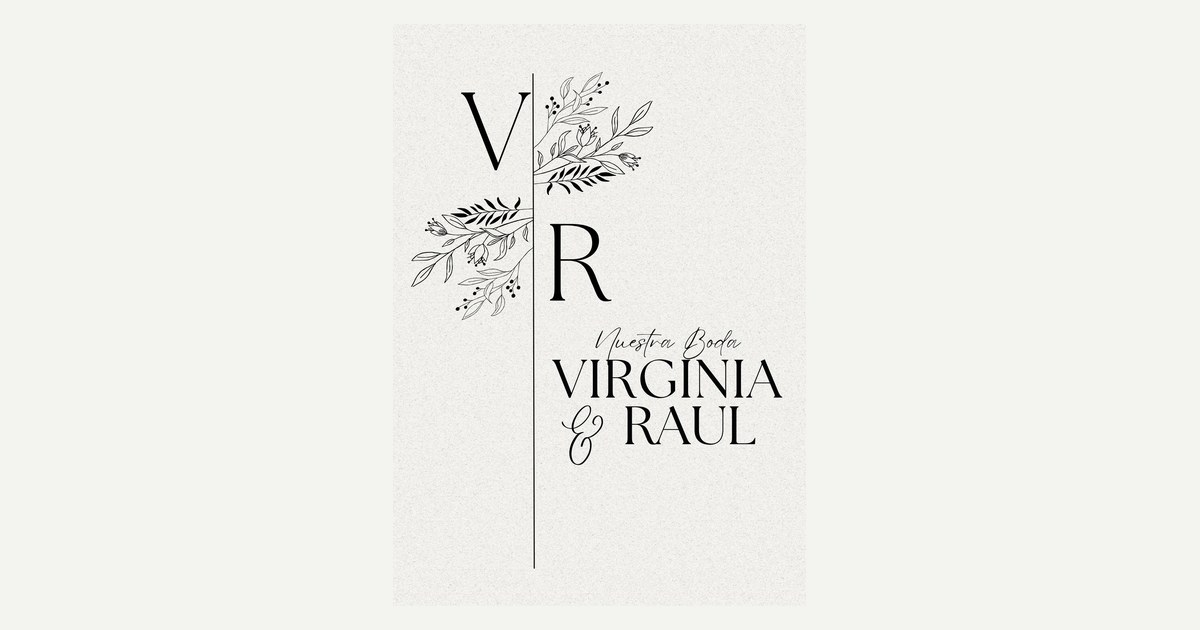
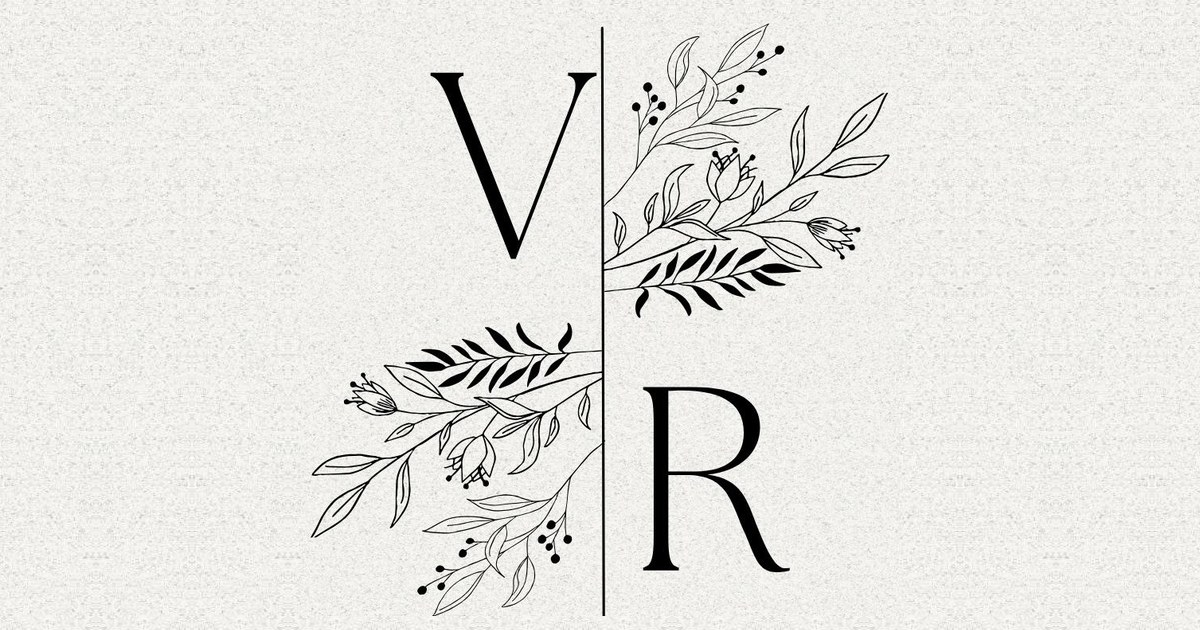
Tarjeta con el monograma V|R
Reemplaza la versión con los nombres por el monograma solo, que es el que
funciona mejor en chico: menos elementos y más grandes.

El original es casi cuadrado (881x782) y la tarjeta es apaisada, así que va
centrado. Dos detalles para que no se note el agregado: se recorta el aire
sobrante alrededor del trazo —detectando tinta real, porque el granito del
papel confunde a una detección por diferencia de color— para que el
monograma entre lo más grande posible; y los márgenes se rellenan con una
franja de papel del propio diseño, espejada, en lugar de un color plano, que
dejaba una costura visible entre el granito y el liso.

Claude-Session: https://claude.ai/code/session_01QQjuS8L8ew9D8PC9J3DnSQ

diff --git a/brindis.html b/brindis.html
@@ -20,7 +20,7 @@
     <meta property="og:image:type" content="image/jpeg">
     <meta property="og:image:width" content="1200">
     <meta property="og:image:height" content="630">
-    <meta property="og:image:alt" content="Nuestra Boda - Virginia &amp; Raúl">
+    <meta property="og:image:alt" content="Monograma V y R de Virginia &amp; Raúl">
     <meta name="twitter:card" content="summary_large_image">
     <meta name="twitter:title" content="Virginia &amp; Raúl - Brindis Civil">
     <meta name="twitter:description" content="Viernes 4 de diciembre · Brindis a las 15:00. Entrá para ver los detalles y confirmar tu asistencia.">

diff --git a/solo.html b/solo.html
@@ -20,7 +20,7 @@
     <meta property="og:image:type" content="image/jpeg">
     <meta property="og:image:width" content="1200">
     <meta property="og:image:height" content="630">
-    <meta property="og:image:alt" content="Nuestra Boda - Virginia &amp; Raúl">
+    <meta property="og:image:alt" content="Monograma V y R de Virginia &amp; Raúl">
     <meta name="twitter:card" content="summary_large_image">
     <meta name="twitter:title" content="Virginia &amp; Raúl - Civil (1)">
     <meta name="twitter:description" content="Viernes 4 de diciembre · Civil y almuerzo. Entrá para ver los detalles y confirmar tu asistencia.">

diff --git a/index.html b/index.html
@@ -18,7 +18,7 @@
     <meta property="og:image:type" content="image/jpeg">
     <meta property="og:image:width" content="1200">
     <meta property="og:image:height" content="630">
-    <meta property="og:image:alt" content="Nuestra Boda - Virginia &amp; Raúl">
+    <meta property="og:image:alt" content="Monograma V y R de Virginia &amp; Raúl">
     <meta name="twitter:card" content="summary_large_image">
     <meta name="twitter:title" content="Virginia &amp; Raúl - Civil">
     <meta name="twitter:description" content="Viernes 4 de diciembre · Civil y almuerzo. Entrá para ver los detalles y confirmar tu asistencia.">
